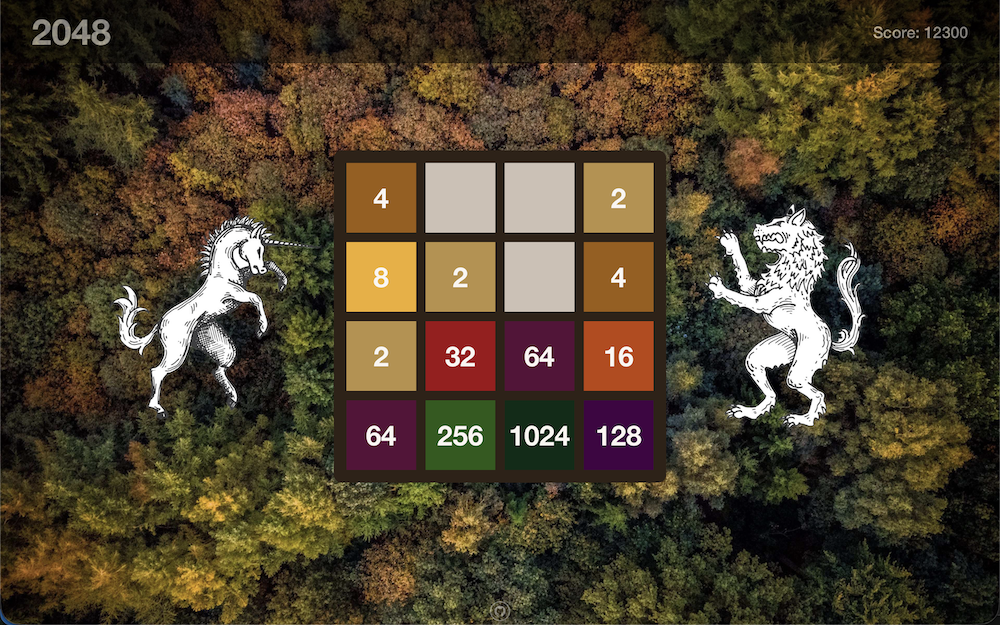
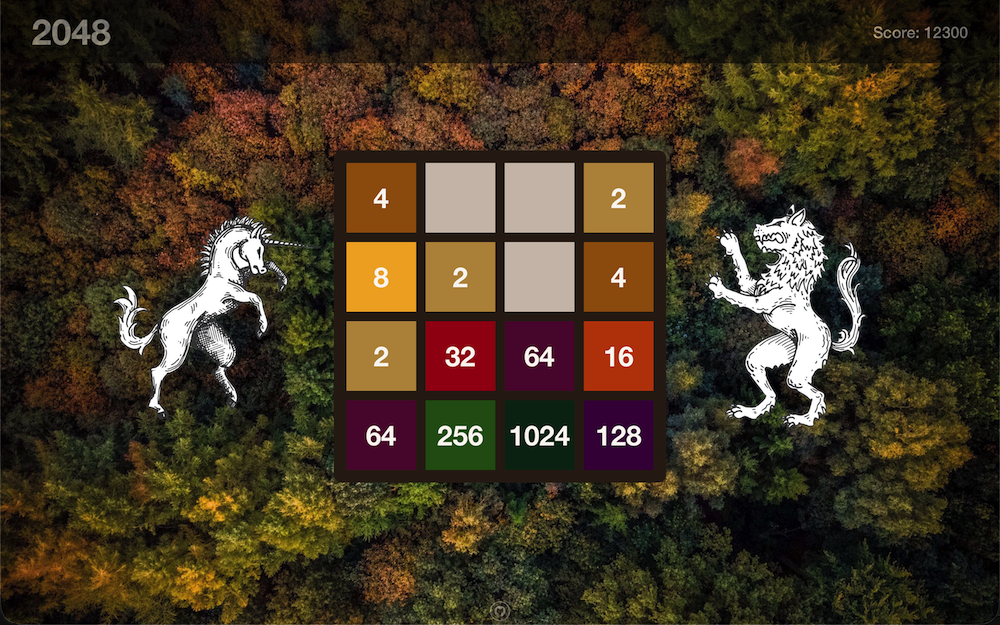
information up-to-date, added project links

diff --git a/src/lib/components/ProjectCard.svelte b/src/lib/components/ProjectCard.svelte
@@ -16,29 +16,36 @@
 </script>
 
 {#snippet tag(tech: Stack)}
-	<span style={`background-color: #${tech.badgeColor}`} class="techtag">{tech.name}</span>
+	<span style={`background-color: #${tech.badgeColor}`} class="tag">{tech.name}</span>
 {/snippet}
 
-<div class="project">
+<div class="card">
 	<span class="thumb">
 		<img alt={title} src={image_url} />
 	</span>
 
 	<span class="text">
-		<span class="flex flex-col items-start gap-1.5">
+		<div class="flex flex-col items-start gap-1.5">
 			<h4>{title}</h4>
 			<p>{@html text}</p>
-		</span>
-		<div class="flex flex-row w-full flex-wrap gap-2">
-			{#each stackUsed as technology}
-				{@render tag(technology)}
-			{/each}
+		</div>
+
+		<div class="flex flex-col gap-2">
+			<div class="links">
+				<a class="tag" target="_blank" href={livedemo_url}>live demo</a>
+				<a class="tag" target="_blank" href={github_url}>code</a>
+			</div>
+			<div class="flex flex-row w-full flex-wrap gap-2">
+				{#each stackUsed as technology}
+					{@render tag(technology)}
+				{/each}
+			</div>
 		</div>
 	</span>
 </div>
 
 <style>
-	.project {
+	.card {
 		display: flex;
 		flex-direction: column;
 		min-height: 25rem;
@@ -63,7 +70,20 @@
 		gap: 1rem;
 	}
 
-	.techtag {
+	.links {
+		display: flex;
+		gap: 0.75rem;
+	}
+
+	a {
+		color: orange;
+	}
+
+	a:hover {
+		color: orangered;
+	}
+
+	.tag {
 		font-size: 0.8rem;
 		border: 1px solid grey;
 		padding: 0.5rem;

diff --git a/src/lib/data/projects.ts b/src/lib/data/projects.ts
@@ -15,23 +15,23 @@ export const projects: ProjectProps[] = [
         text: "A drum machine application I made for guitar practice. Has a number of built-in presets, and you can make and save your own.",
         image_url: "/bandmate.png",
         livedemo_url: "http://bandmate-drummer.vercel.app",
-        github_url: "https://github.com/sozhran/bandmate",
-        technologies: ["TypeScript", "React", "TailwindCSS", "Tone.js"]
+        github_url: "https://github.com/artzimov/bandmate",
+        technologies: ["Next.js", "TypeScript", "React", "Tone.js"]
     },
     {
         title: "2048",
         text: "My version of a popular game.",
         image_url: "2048.png",
-        livedemo_url: "https://2048-sozhran.vercel.app",
-        github_url: "https://github.com/sozhran/2048-svelte",
-        technologies: ["TypeScript", "Svelte"]
+        livedemo_url: "https://2048-themoor.vercel.app",
+        github_url: "https://github.com/artzimov/2048-svelte",
+        technologies: ["Svelte", "TypeScript"]
     },
     {
         title: "DunKee",
         text: "A fan site dedicated to Dungeon Keeper. Not a serious portfolio project, but you might like my Room efficiency calculator, adapted from the game's source code.",
         image_url: "/dunkee.png",
         livedemo_url: "https://dunkee.vercel.app",
-        github_url: "https://github.com/sozhran/dunkee",
-        technologies: ["TypeScript", "Next.js", "TailwindCSS"]
+        github_url: "https://github.com/artzimov/dunkee",
+        technologies: ["Next.js", "TypeScript", "React", "TailwindCSS"]
     }
 ]

diff --git a/src/routes/+layout.svelte b/src/routes/+layout.svelte
@@ -3,6 +3,7 @@
 	import '../app.css';
 
 	let { children } = $props();
+	let currentYear = new Date().getFullYear().toString();
 </script>
 
 <div class="app">
@@ -12,7 +13,7 @@
 		{@render children()}
 	</main>
 
-	<footer>© 2025 Artem Rasskazimov</footer>
+	<footer>© 2024-{currentYear} Artem Rasskazimov</footer>
 </div>
 
 <style>

diff --git a/src/lib/data/icons.ts b/src/lib/data/icons.ts
@@ -7,7 +7,7 @@ export const icons = [
     },
     {
         title: "GitHub",
-        url: "https://github.com/sozhran",
+        url: "https://github.com/artzimov",
         path: "M173.9 397.4c0 2-2.3 3.6-5.2 3.6-3.3 .3-5.6-1.3-5.6-3.6 0-2 2.3-3.6 5.2-3.6 3-.3 5.6 1.3 5.6 3.6zm-31.1-4.5c-.7 2 1.3 4.3 4.3 4.9 2.6 1 5.6 0 6.2-2s-1.3-4.3-4.3-5.2c-2.6-.7-5.5 .3-6.2 2.3zm44.2-1.7c-2.9 .7-4.9 2.6-4.6 4.9 .3 2 2.9 3.3 5.9 2.6 2.9-.7 4.9-2.6 4.6-4.6-.3-1.9-3-3.2-5.9-2.9zM252.8 8c-138.7 0-244.8 105.3-244.8 244 0 110.9 69.8 205.8 169.5 239.2 12.8 2.3 17.3-5.6 17.3-12.1 0-6.2-.3-40.4-.3-61.4 0 0-70 15-84.7-29.8 0 0-11.4-29.1-27.8-36.6 0 0-22.9-15.7 1.6-15.4 0 0 24.9 2 38.6 25.8 21.9 38.6 58.6 27.5 72.9 20.9 2.3-16 8.8-27.1 16-33.7-55.9-6.2-112.3-14.3-112.3-110.5 0-27.5 7.6-41.3 23.6-58.9-2.6-6.5-11.1-33.3 2.6-67.9 20.9-6.5 69 27 69 27 20-5.6 41.5-8.5 62.8-8.5s42.8 2.9 62.8 8.5c0 0 48.1-33.6 69-27 13.7 34.7 5.2 61.4 2.6 67.9 16 17.7 25.8 31.5 25.8 58.9 0 96.5-58.9 104.2-114.8 110.5 9.2 7.9 17 22.9 17 46.4 0 33.7-.3 75.4-.3 83.6 0 6.5 4.6 14.4 17.3 12.1 100-33.2 167.8-128.1 167.8-239 0-138.7-112.5-244-251.2-244zM105.2 352.9c-1.3 1-1 3.3 .7 5.2 1.6 1.6 3.9 2.3 5.2 1 1.3-1 1-3.3-.7-5.2-1.6-1.6-3.9-2.3-5.2-1zm-10.8-8.1c-.7 1.3 .3 2.9 2.3 3.9 1.6 1 3.6 .7 4.3-.7 .7-1.3-.3-2.9-2.3-3.9-2-.6-3.6-.3-4.3 .7zm32.4 35.6c-1.6 1.3-1 4.3 1.3 6.2 2.3 2.3 5.2 2.6 6.5 1 1.3-1.3 .7-4.3-1.3-6.2-2.2-2.3-5.2-2.6-6.5-1zm-11.4-14.7c-1.6 1-1.6 3.6 0 5.9s4.3 3.3 5.6 2.3c1.6-1.3 1.6-3.9 0-6.2-1.4-2.3-4-3.3-5.6-2z"
     }
 ]